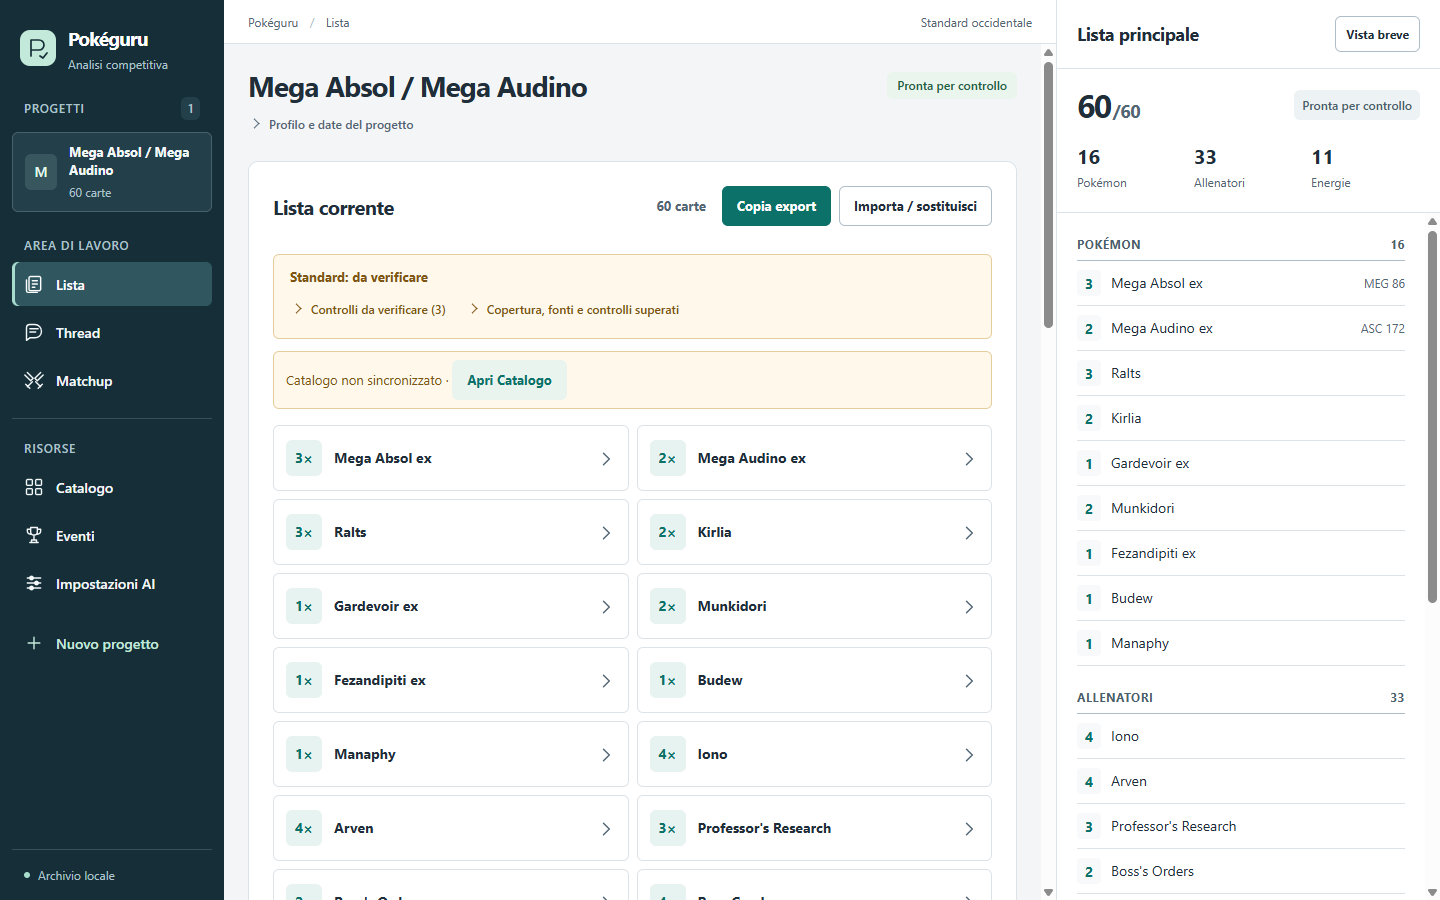
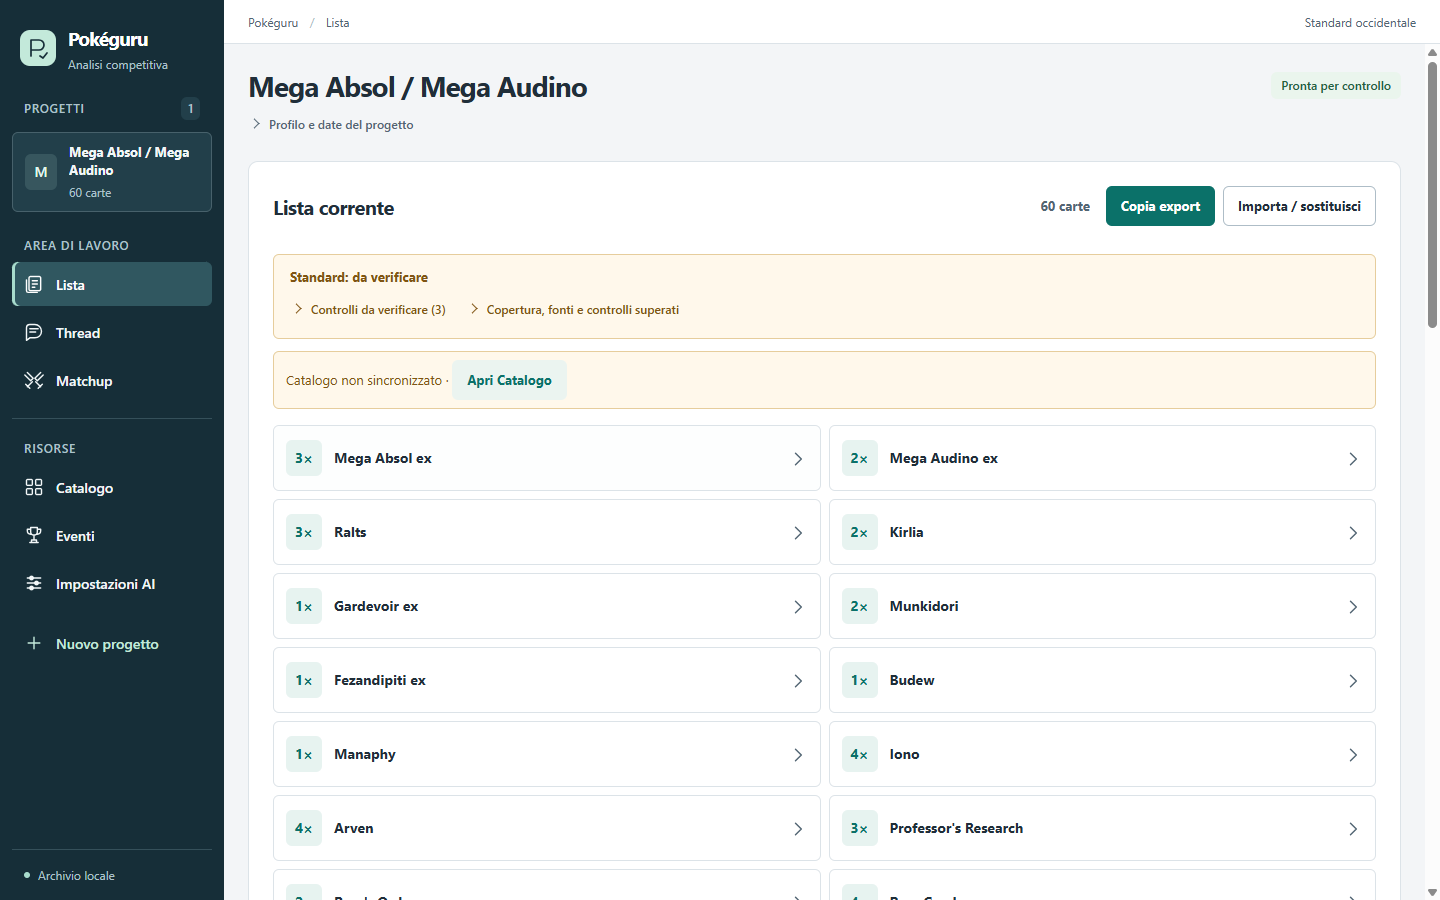
fix(ui): remove duplicate companion from deck view

diff --git a/src/renderer/src/App.tsx b/src/renderer/src/App.tsx
@@ -213,9 +213,10 @@ export function App() {
   }
 
   const importProblems = baseline?.diagnostics.filter((item) => item.code === 'UNPARSED' || item.code === 'TOTAL_MISMATCH') ?? []
+  const showDeckCompanion = Boolean(selected && view === 'project' && activeTab !== 'deck')
 
   return (
-    <div className={`app-shell ${selected && view === 'project' ? 'with-deck' : ''} ${view === 'project' ? `workspace-${activeTab}` : ''}`}>
+    <div className={`app-shell ${showDeckCompanion ? 'with-deck' : ''} ${view === 'project' ? `workspace-${activeTab}` : ''}`}>
       <a className="skip-link" href="#main-content">Vai al contenuto</a>
       <header className="topbar">
         <span>Pokéguru <b aria-hidden="true">/</b> {view === 'project' ? activeTab === 'deck' ? 'Lista' : activeTab === 'threads' ? 'Thread' : 'Matchup' : view === 'catalog' ? 'Catalogo' : view === 'tournament' ? 'Eventi' : 'Impostazioni AI'}</span>
@@ -396,7 +397,7 @@ export function App() {
             </section>
           )}
         </main>
-        {selected && view === 'project' && <DeckCompanion key={selected.id} baseline={baseline} loading={baselineLoading} />}
+        {selected && showDeckCompanion && <DeckCompanion key={selected.id} baseline={baseline} loading={baselineLoading} />}
       </div>
     </div>
   )

diff --git a/docs/BACKLOG.md b/docs/BACKLOG.md
@@ -66,6 +66,7 @@ Dimensioni relative: **S** contenuto, **M** medio, **L** epica da scomporre prim
 | **APP-057** | Evidenze multi evento e guide Matchup verificabili | Funzionalità | R-06, R-10, R-13 / qualità pre-I4 | P0 / M | APP-054–056 | Done |
 | **APP-058** | Evidenze Catalogo ed Eventi per ogni turno AI dei Thread | Funzionalità | R-06, R-07, R-08, R-11 / qualità pre-I4 | P0 / M | APP-054–057, APP-041, C-19 | Done |
 | **APP-059** | Design system e rifinitura completa dell’interfaccia desktop | UI/UX | R-01–R-13 / qualità pre-I4 | P0 / M | APP-051–058; richiesta utente 24-10-2026 | Done |
+| **APP-060** | Eliminare la lista duplicata dalla vista Lista | UI/UX | R-03, R-08, R-10 / qualità pre-I4 | P0 / S | APP-059; conferma utente durante la revisione condivisa | Done |
 
 ## Task dettagliati I0–I2
 
@@ -513,6 +514,14 @@ Dimensioni relative: **S** contenuto, **M** medio, **L** epica da scomporre prim
 - **Risultato:** audit approfondito in `DESIGN_SYSTEM.md`, token semantici, componenti e layout separati, icone SVG, sidebar 224 px, lista fissa 384 px e dock 220 px. Nomi lunghi a capo, tipografia sans, controlli uniformi, proposta distinta, metadati e meccaniche secondari apribili. Primo progetto creato nel contenuto; focus dell'importazione e dei vincoli, selettore Matchup responsive, ritorno del focus e visibilità degli errori nel dialogo di adozione corretti. Database, validatori e integrazioni invariati.
 - **Verifiche eseguite su Windows:** build/typecheck; 103 test locali passati, 13 live esclusi; `workspace-ui-live.mjs` a 1440×900, 1280×720, 1241/1240×720, 1024×768 e 640×720; risorse globali a 640×580. `catalog-ui-live.mjs`, `tournament-ui-live.mjs --offline` (Play e Regional con fixture), `ai-settings-offline.mjs`, `deck-adoption-live.mjs`, `threads-live.mjs`, `threads-ai-live.mjs --offline`, `electron-smoke.mjs --offline` passati. Audit del testo renderizzato: contrasto, minimo 12 px, bersagli e nomi accessibili; Tab/Shift+Tab, Escape, ritorno del focus, PageDown nella lista e scroll indipendenti. Piano Matchup leggibile nella prima schermata a 1280×720. Schermate ispezionate e salvate in `docs/design-review/`; avvio vuoto verificato anche a 1440/1280. `git diff --check` pulito.
 - **Limiti:** fixture dichiarate per guida, Catalogo ed Eventi; nessuna nuova generazione Codex o certificazione delle conclusioni. Prove eseguite su Windows; Linux, lettore di schermo e scala del sistema oltre il 100% non verificati in questa sessione. Ramo locale pronto alla prova; nessun merge, push di release o avvio I4.
+
+### APP-060 — Una sola lista nella vista Lista
+
+- **Autorizzazione:** durante la revisione condivisa, l'utente conferma che il pannello destro nella vista Lista è una duplicazione. Task circoscritto, criteri e dipendenze risolti; selezionato da Ready e avviato sul ramo del design system.
+- **Accettazione:** Lista, vuota o caricata, occupa l'area disponibile senza riepilogo destro o dock; Thread e Matchup conservano il pannello persistente da 384 px desktop e il dock responsive.
+- **Verifica prevista:** build e percorso Electron del workspace alle risoluzioni già coperte, con ispezione visiva di Lista a 1440×900 e 1280×720. Aggiornare le assunzioni del test esistente sul pannello.
+- **Risultato:** una sola lista nella vista Lista; pannello laterale e dock riservati a Thread e Matchup. Un'unica condizione governa sia la griglia sia il componente, senza colonne vuote.
+- **Verifiche:** build/typecheck e percorso Electron workspace Windows passati a 1440×900, 1280×720, 1241/1240×720, 1024×768 e 640×720; lista vuota/caricata, spazio recuperato, pannello nelle altre viste, tastiera e scroll indipendente. Schermate Lista desktop ispezionate. Guida di prova sintetica; nessuna nuova prova AI o Linux. Prosegue la revisione condivisa, senza merge o release.
 
 ## Regola per i blocchi
 

diff --git a/docs/DESIGN_SYSTEM.md b/docs/DESIGN_SYSTEM.md
@@ -27,8 +27,9 @@ L'audit comprende codice e avvio della versione integrata, schermate di Lista, c
 
 - **Navigazione:** progetti, tre aree del mazzo, risorse globali. Sidebar desktop di **224 px**.
 - **Lavoro:** contenuto centrale fluido con scorrimento indipendente. La larghezza delle singole componenti risponde allo spazio effettivo tramite container query.
-- **Lista principale:** **384 px fissi** sopra 1240 px di finestra. Quantità, sezioni e stato restano leggibili; nomi lunghi vanno a capo. Lo stato “Pronta per controllo” è neutro: non equivale a Standard verificato.
-- **Finestra stretta:** fino a 1240 px, navigazione a icone e lista in dock inferiore di 220 px, sempre parte della griglia. A 640 px la navigazione diventa orizzontale. Nessun pannello copre il contenuto.
+- **Vista Lista:** una sola lista nell'area di lavoro disponibile, senza riepilogo laterale o dock; decisione confermata dall'utente in APP-060.
+- **Lista persistente in Thread e Matchup:** **384 px fissi** sopra 1240 px di finestra. Quantità, sezioni e stato restano leggibili; nomi lunghi vanno a capo. Lo stato “Pronta per controllo” è neutro: non equivale a Standard verificato.
+- **Finestra stretta:** fino a 1240 px, navigazione a icone e lista in dock inferiore di 220 px solo in Thread e Matchup, sempre parte della griglia. A 640 px la navigazione diventa orizzontale. Nessun pannello copre il contenuto.
 - **Livelli informativi:** decisione e blocchi → dettaglio operativo → provenienza e diagnostica. I dati non vengono eliminati per rendere la schermata più breve.
 
 ## Fondazioni
@@ -73,7 +74,7 @@ Esiti dei comandi e limiti effettivi sono registrati in **APP-059 in BACKLOG.md*
 
 ## Percorso di prova
 
-Schermate registrate: [Lista desktop](design-review/lista-1440.png), [Thread](design-review/thread-1440.png), [Matchup 1280](design-review/matchup-1280.png), [dock a 640](design-review/lista-640.png), [Catalogo](design-review/catalogo-1440.png), [Eventi](design-review/eventi-1280.png), [conferma di adozione](design-review/adozione.png).
+Schermate registrate: [Lista 1440](design-review/lista-1440.png), [Lista 1280](design-review/lista-1280.png), [Thread](design-review/thread-1440.png), [Matchup 1280](design-review/matchup-1280.png), [Lista a 640](design-review/lista-640.png), [dock Thread a 640](design-review/thread-640.png), [Catalogo](design-review/catalogo-1440.png), [Eventi](design-review/eventi-1280.png), [conferma di adozione](design-review/adozione.png).
 
 1. **Lista:** leggere carte con nomi lunghi, aprire una carta, verificare lo stato Standard e provare “Importa / sostituisci”.
 2. **Thread → Piano più rapido:** confrontare principale e proposta; scorrere le due liste e il pannello persistente in modo indipendente; aprire e annullare l'adozione.

diff --git a/docs/PLAN.md b/docs/PLAN.md
@@ -96,6 +96,8 @@ Al termine di ciascun incremento, mostrare il percorso utente, registrare eviden
 
 ## Ripresa
 
+- **APP-060 completato:** prima decisione della revisione condivisa applicata: Lista usa l'area disponibile senza riepilogo duplicato; pannello e dock persistono in Thread e Matchup. Build e percorso Electron workspace Windows passati, schermate Lista 1440×900 e 1280×720 ispezionate. Prossimo punto da discutere: progetti e sidebar. Le altre scelte si analizzano con l'utente una alla volta.
+
 - **Checkpoint APP-059 completato:** rifinitura UI/UX sul ramo locale `task/production-design-system`, derivato da `dev` aggiornato e in worktree dedicato. Audit e regole in `DESIGN_SYSTEM.md`, schermate in `design-review/`; token/componenti condivisi e tutti i flussi principali verificati in Electron Windows, inclusi contrasto, tastiera e layout da 1440 a 640 px. Risultati e limiti nel backlog. Prossimo passo: prova utente della rifinitura prima di un eventuale merge esplicitamente richiesto; Linux e alta scala del sistema restano da verificare. I4 e release esclusi.
 
 - **Stato reale:** I1 e il percorso campione I2 sono completati. L'app crea progetti Standard occidentali, importa ed esporta liste, conserva versioni principali e thread locali separati, mostra vincoli e validazione Standard con esito conforme, non conforme o da verificare secondo lo snapshot incluso, Matchup Limitless con guide Codex e revisioni. Il Catalogo è globale: «Aggiorna nuove carte» cerca nuovi set e scarica solo dettagli mancanti; «Scansione completa» ricontrolla quelli acquisiti. Coda e progresso sono salvati in SQLite e riprendono dopo interruzioni. APP-034 mostra copertura e mancanti per ciascun set del manifest. APP-035 include lo snapshot di tutte le 346 righe del registro promo osservate il 23-10-2026, senza certificare la copertura TCGdex o la legalità Standard. Vecchie stampe fuori formato restano escluse.

diff --git a/README.md b/README.md
@@ -28,6 +28,8 @@ L'integrazione del workspace e dei testi in `dev` è tracciata dalla [PR #4](htt
 
 ### Design system (APP-059)
 
+La revisione condivisa APP-060 elimina il riepilogo duplicato nella vista **Lista**, che usa ora l'area disponibile. Il pannello fisso e il dock descritti sotto rimangono in **Thread** e **Matchup**.
+
 Il ramo `task/production-design-system` rifinisce tutte le viste dell'app con token condivisi, tipografia sans, icone SVG, controlli leggibili e stati coerenti. La sidebar desktop è larga **224 px**; la lista principale rimane fissa a **384 px**, con dock di 220 px sotto la soglia di 1240 px. Il primo progetto si crea nell'area centrale. Metadati e metodo precedono meno spesso carte, differenze e strategia; focus e scorrimento sono verificati anche da tastiera.
 
 L'[audit e le regole del design system](docs/DESIGN_SYSTEM.md) descrivono le scelte e i percorsi di prova. `node tests/workspace-ui-live.mjs --keep-profile`, dopo la build, conserva e stampa un profilo dimostrativo isolato. La guida e le liste di prova sono esempi UI, non nuove generazioni Codex. La rifinitura non è ancora integrata in `dev` né nella release v0.1.0.

diff --git a/docs/DECISIONS.md b/docs/DECISIONS.md
@@ -63,6 +63,10 @@ Il feedback utente autorizza una rifinitura completa del renderer sul `dev` aggi
 
 Scelte reversibili nel renderer: nessuna modifica a schema, validatori, persistenza o integrazioni. Le prove UI con fixture non certificano le conclusioni AI. La resa Linux e ad alta scala del sistema resta da verificare; merge, I4 e release non inclusi nell'autorizzazione di APP-059.
 
+### T-49 — Lista unica nella vista Lista (APP-060)
+
+Durante la revisione condivisa l'utente riconosce il riepilogo destro come duplicazione nella vista Lista. In questa vista le carte occupano l'area di lavoro disponibile, anche quando la lista è vuota; nessun pannello destro o dock. Thread e Matchup conservano la lista persistente con larghezza e comportamento di T-48. La scelta modifica solo il layout del renderer.
+
 ## Registro delle fonti primarie
 
 | ID | Fonte consultata il 23-10-2026 | Conclusione utilizzabile | Limite e verifica futura |
